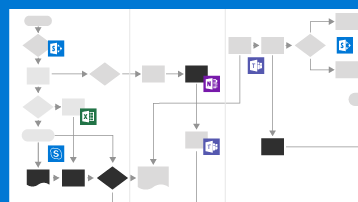
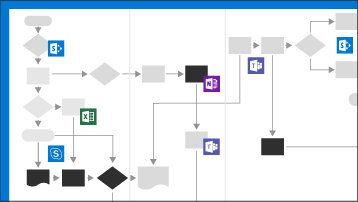
adding border

Changed region(s): [[0.0, 0.0, 1.0, 1.0]]

diff --git a/FreelanceToolkit/launchyourfreelanceprogram.md b/FreelanceToolkit/launchyourfreelanceprogram.md
@@ -65,7 +65,7 @@ Start building your own freelance program through the toolkit
                 <div class="card">
                     <div class="cardImageOuter">
                         <div class="cardImage">
-                            <img src="media/M365_Freelance_communication_comm_site_358x201.png" alt="A SharePoint communications hub" />
+                            <img src="media/M365_Freelance_communications_comm_site_358x201.png" alt="A SharePoint communications hub" />
                         </div>
                     </div>
                     <div class="cardText">
